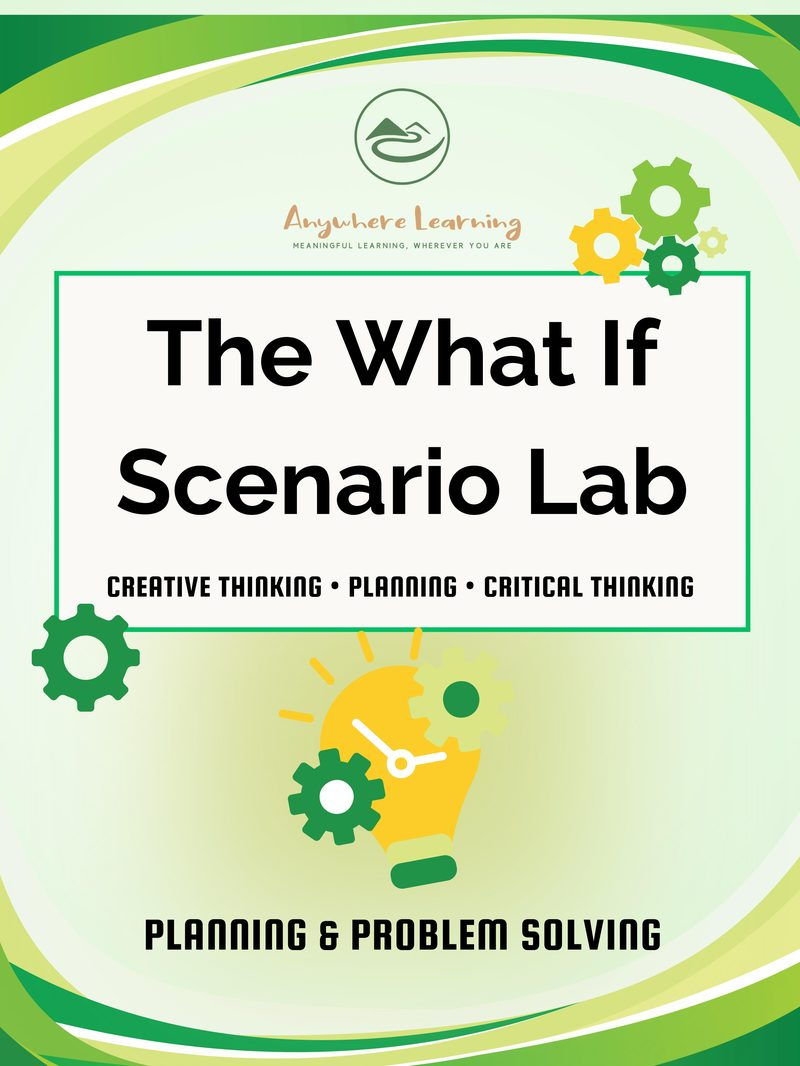
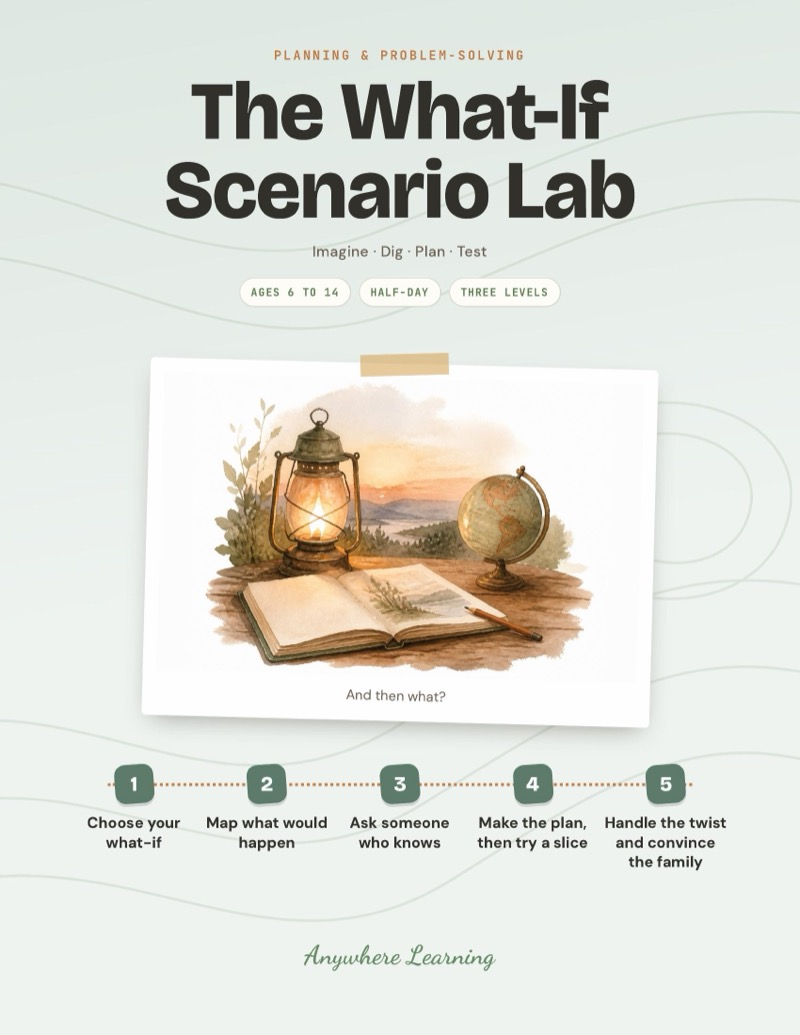
The What-If Scenario Lab: redesigned guide, watercolour cover, new listing, ages 6-14, communication tag

diff --git a/scripts/seed.ts b/scripts/seed.ts
@@ -117,7 +117,7 @@ async function seed() {
     { name: 'Pack Like a Pro', slug: 'pack-like-a-pro', description: 'Your child packs their own bag for a real trip. They work out what the trip actually needs, list everything they want, cut it down to fit real limits, then pack it and test it with some what-ifs. After the trip, they see what came home unused and build a packing list they can use year after year.', shortDescription: 'Life skill for kids ages 6-14: pack their own bag for a real trip, make real trade-offs and build a reusable list.', priceCents: 599, compareAtPriceCents: null, stripePriceId: '', blobUrl: '', imageUrl: '/products/pack-like-a-pro.jpg', category: 'planning-problem-solving', isBundle: false, bundleProductIds: null, activityCount: null, ageRange: 'Ages 6–14', sortOrder: 135, active: true },
     { name: 'Scavenger Hunt Designer', slug: 'scavenger-hunt-designer', description: 'Your child designs and runs a real scavenger hunt for the family. They pick a theme, scout the spots, write clues that make players think, map the route and set the rules. Then they test it, run the whole event from the welcome to the prize, and make it better for the next round.', shortDescription: 'Planning activity for kids ages 6-14: design and run a real scavenger hunt with original clues, a route and rules.', priceCents: 599, compareAtPriceCents: null, stripePriceId: '', blobUrl: '', imageUrl: '/products/scavenger-hunt-designer.jpg', category: 'planning-problem-solving', isBundle: false, bundleProductIds: null, activityCount: null, ageRange: 'Ages 6–14', sortOrder: 136, active: true },
     { name: 'The Swap Day Challenge', slug: 'swap-day-challenge', description: 'Your child runs the house for a day or half a day while you work for them. They find all the work that keeps a home going, including the remembering and deciding nobody sees, then plan the day and the meals and handle what goes wrong. Afterwards they keep one job for good.', shortDescription: 'Life skills activity for kids ages 6-14: run the house for a day, see the invisible work and keep one job for good.', priceCents: 599, compareAtPriceCents: null, stripePriceId: '', blobUrl: '', imageUrl: '/products/swap-day-challenge.jpg', category: 'planning-problem-solving', isBundle: false, bundleProductIds: null, activityCount: null, ageRange: 'Ages 6–14', sortOrder: 137, active: true },
-    { name: 'The What-If Scenario Lab', slug: 'what-if-scenario-lab', description: 'Explore hypothetical scenarios, predict outcomes, and plan responses.', shortDescription: 'Explore what-if scenarios.', priceCents: 599, compareAtPriceCents: null, stripePriceId: '', blobUrl: '', imageUrl: '/products/what-if-scenario-lab.jpg', category: 'planning-problem-solving', isBundle: false, bundleProductIds: null, activityCount: null, ageRange: 'Ages 8–14', sortOrder: 138, active: true },
+    { name: 'The What-If Scenario Lab', slug: 'what-if-scenario-lab', description: 'Your child takes a big what-if, like a week with no electricity, and thinks it all the way through. They map what would really happen by Day 3 and Day 7, ask someone who has lived something like it, make a plan, try a small slice of it for real, then handle a twist and convince the family.', shortDescription: 'Critical thinking activity for kids ages 6-14: follow a big what-if all the way through, then try a slice of it for real.', priceCents: 599, compareAtPriceCents: null, stripePriceId: '', blobUrl: '', imageUrl: '/products/what-if-scenario-lab.jpg', category: 'planning-problem-solving', isBundle: false, bundleProductIds: null, activityCount: null, ageRange: 'Ages 6–14', sortOrder: 138, active: true },
     { name: 'What Would You Do? Decision Lab', slug: 'decision-lab', description: 'Work through real decision scenarios, weigh options, and justify choices.', shortDescription: 'Practise real-world decision-making.', priceCents: 599, compareAtPriceCents: null, stripePriceId: '', blobUrl: '', imageUrl: '/products/decision-lab.jpg', category: 'planning-problem-solving', isBundle: false, bundleProductIds: null, activityCount: null, ageRange: 'Ages 6–14', sortOrder: 139, active: true },
 
     // === WORLDSCHOOLING (sortOrder 200-209) ===

diff --git a/lib/product-descriptions.ts b/lib/product-descriptions.ts
@@ -2207,24 +2207,24 @@ export const productDescriptions: Record<string, ProductDescription> = {
   },
   'what-if-scenario-lab': {
     opening:
-      'Explore hypothetical "what if" scenarios, predict outcomes, and plan responses. Kids work through situations that stretch their thinking, from everyday dilemmas to wildly creative scenarios. Speculative thinking that builds planning skills, creative reasoning, and adaptability.',
+      'Your child takes a big what-if, like a week with no electricity, and thinks it all the way through. They map what would really happen by Day 3 and Day 7, ask someone who has lived something like it, make a plan, try a small slice of it for real, then handle a twist and convince the family.',
     whatsIncluded: [
-      'What-if scenario challenge cards',
-      'Outcome prediction and planning frameworks',
-      'Risk assessment and contingency thinking',
-      'Creative scenario generation',
-      'Discussion prompts and reflection activities',
+      'A 5-step guide from the first reaction to a plan the family agrees on',
+      'A worked example that shows how to go past the first answer',
+      'What-ifs card and Keep asking card',
+      'Try a slice card and Twists card',
+      'Our plan page to fill in and present',
     ],
-    skillTags: ['Creative Thinking', 'Planning', 'Critical Thinking', 'Adaptability', 'Risk Assessment'],
+    skillTags: ['Critical Thinking', 'Planning', 'Curiosity', 'Trade-Offs', 'Communication'],
     insideTheLearning: {
       lead:
-        'Your child takes a what-if scenario and thinks it all the way through. Not the fun first answer, the second and third order consequences. They research, predict outcomes, plan for the risks, then argue their reasoning against someone who disagrees.',
+        'Your child follows one big question past the first easy answer. They talk to someone who has lived something like it, make hard choices, test a small piece for real and then have to convince the family.',
       skills: [
-        { skill: 'Creative Thinking', where: 'Imagining and inventing the scenario properly rather than stopping at the obvious' },
-        { skill: 'Critical Thinking', where: 'Analysing the outcomes and reasoning through what actually follows' },
-        { skill: 'Research', where: 'Finding real information and comparing it against their predictions' },
-        { skill: 'Planning', where: 'Sequencing the consequences and thinking through the contingencies' },
-        { skill: 'Communication', where: 'Presenting the case and arguing it when someone pushes back' },
+        { skill: 'Critical Thinking', where: 'Asking and then what, day by day, until the real problems show up' },
+        { skill: 'Research', where: 'Asking someone who has lived it and finding out what surprised them' },
+        { skill: 'Planning', where: 'Working out Day 1, the biggest problems and what to give up' },
+        { skill: 'Science', where: 'Seeing how food, energy and water actually reach a home' },
+        { skill: 'Communication', where: 'Presenting the plan and answering every doubt' },
       ],
     },
     format: 'Project Guide',

diff --git a/lib/fallback-products.ts b/lib/fallback-products.ts
@@ -1959,20 +1959,20 @@ export const fallbackProducts: FallbackProduct[] = [
     name: "The What-If Scenario Lab",
     slug: "what-if-scenario-lab",
     description:
-      "Explore hypothetical scenarios, predict outcomes, and plan responses. Kids work through 'what if' situations that stretch their thinking, from everyday dilemmas to wild scenarios. Speculative thinking that builds planning skills and creative problem-solving.",
+      "Your child takes a big what-if, like a week with no electricity, and thinks it all the way through. They map what would really happen by Day 3 and Day 7, ask someone who has lived something like it, make a plan, try a small slice of it for real, then handle a twist and convince the family.",
     shortDescription:
-      "Critical thinking for kids ages 8-14: explore what-if scenarios and plan responses. Decision-making practice.",
+      "Critical thinking activity for kids ages 6-14: follow a big what-if all the way through, then try a slice of it for real.",
     priceCents: 599,
     compareAtPriceCents: null,
     stripePriceId: "price_1TLo8YAkIBECpwGmSfnJ5nSM",
     blobUrl: "",
     imageUrl: "/products/what-if-scenario-lab.jpg",
-    previewFile: "Preview Planning & Problem-Solving The What If Scenario Lab.pdf",
+    previewFile: "Preview Planning & Problem-Solving The What If Scenario Lab v3.pdf",
     category: "planning-problem-solving",
     isBundle: false,
     bundleProductIds: null,
     activityCount: null,
-    ageRange: "Ages 8–14",
+    ageRange: "Ages 6–14",
     sortOrder: 138,
     active: true,
     createdAt: new Date("2025-04-01"),

diff --git a/lib/activity-blob-urls.ts b/lib/activity-blob-urls.ts
@@ -134,7 +134,7 @@ export const ACTIVITY_BLOB_URLS: Record<string, string> = {
   "travel-day": "https://xkj3tzlgu6ylgllk.public.blob.vercel-storage.com/Planning%20%26%20Problem-Solving%20Travel%20Day%20Itinerary%20Challenge%20v3.pdf",
   "travel-reflection-postcards": "https://xkj3tzlgu6ylgllk.public.blob.vercel-storage.com/Worldschooling%20-%20Travel%20Reflection%20%26%20Postcards%20v2.pdf",
   "two-minute-story": "https://xkj3tzlgu6ylgllk.public.blob.vercel-storage.com/Communication%20%26%20Writing%20-%20The%20Two%20Minute%20Story%20v6.pdf",
-  "what-if-scenario-lab": "https://xkj3tzlgu6ylgllk.public.blob.vercel-storage.com/Planning%20%26%20Problem-Solving%20The%20What%20If%20Scenario%20Lab%20v2.pdf",
+  "what-if-scenario-lab": "https://xkj3tzlgu6ylgllk.public.blob.vercel-storage.com/Planning%20%26%20Problem-Solving%20The%20What%20If%20Scenario%20Lab%20v3.pdf",
   "winter-outdoor-pack": "https://xkj3tzlgu6ylgllk.public.blob.vercel-storage.com/Outdoor%20Learning%20-%20Anywhere%20Learning%20Winter%20v2.pdf",
   "world-food-detective": "https://xkj3tzlgu6ylgllk.public.blob.vercel-storage.com/Worldschooling%20-%20World%20Food%20Detective%20v2.pdf",
   "worry-sorter": "https://xkj3tzlgu6ylgllk.public.blob.vercel-storage.com/Emotional%20%26%20Social%20Skills%20-%20The%20Worry%20Sorter%20v2.pdf",

diff --git a/lib/roadmap.ts b/lib/roadmap.ts
@@ -459,6 +459,7 @@ const SUPPLEMENTAL_TERRITORY_TAGS: Record<string, string[]> = {
   'pack-like-a-pro': ['critical-thinking'],
   'scavenger-hunt-designer': ['self-management', 'creativity'],
   'swap-day-challenge': ['self-management'],
+  'what-if-scenario-lab': ['communication'],
 };
 
 /**
